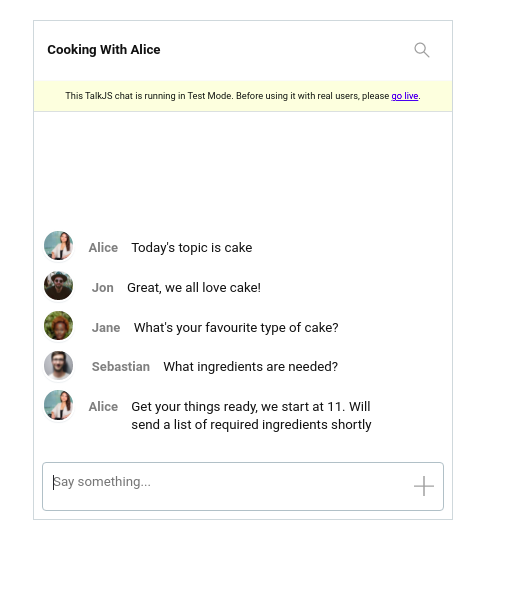
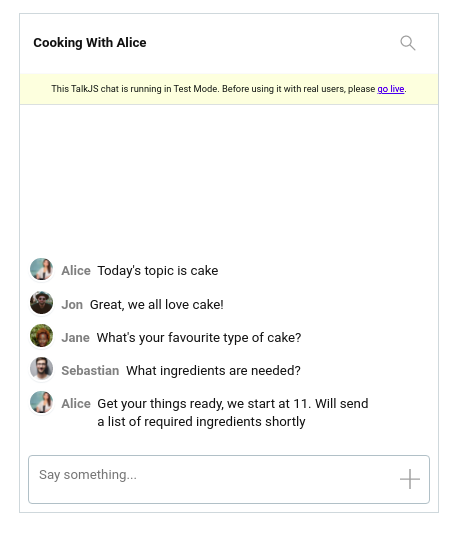
Update tutorial and screenshots

diff --git a/howtos/how-to-create-a-youtube-chatroom/tutorial.md b/howtos/how-to-create-a-youtube-chatroom/tutorial.md
@@ -208,11 +208,13 @@ We need to add a few final tweaks to move our messages closer to the usernames. 
 
 ```
 .text {
-    padding: 0.75rem 0 0 0;
+    padding: 0.5rem 0 0 0;
 }
 ```
 
-Lastly we can go to the **Avatar** top level component and change the `.avatar` width and height to 2.5rem to make the avatars a little smaller.
+We also need to delete the `.by-other .message` class to better align the messages.
+
+Lastly we can go to the **Avatar** top level component and change the `.avatar` width and height to 2rem to make the avatars a little smaller.
 
 At which point our chat UI would look like this:
 
